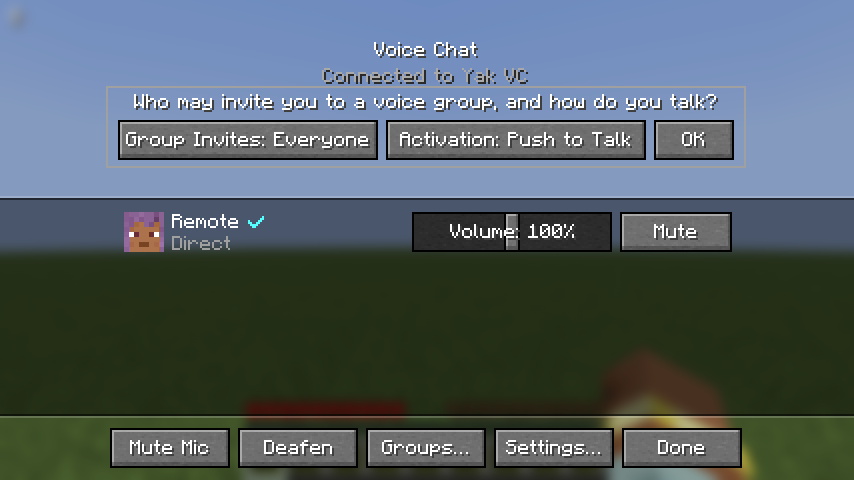
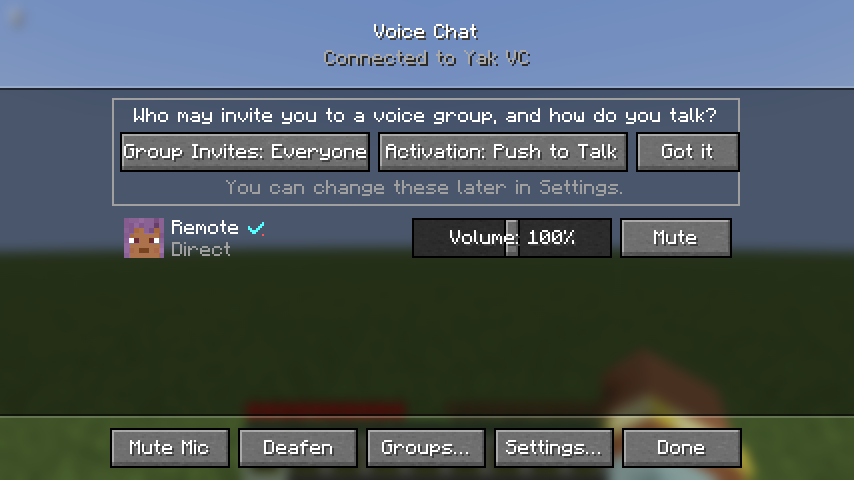
Move the setup card into the player list
The card now sits in the list as its own row, with a "Got it" button and a
note that both choices can be changed later in Settings.

Changed region(s): [[0.0, 0.0312, 1.0, 0.5625]]

diff --git a/mod/src/main/java/io/github/desocketed/yakvc/ui/VoiceMenuScreen.java b/mod/src/main/java/io/github/desocketed/yakvc/ui/VoiceMenuScreen.java
@@ -19,6 +19,7 @@ import net.minecraft.client.Minecraft;
 import net.minecraft.client.OptionInstance;
 import net.minecraft.client.gui.GuiGraphicsExtractor;
 import net.minecraft.client.gui.components.AbstractSliderButton;
+import net.minecraft.client.gui.components.AbstractWidget;
 import net.minecraft.client.gui.components.Button;
 import net.minecraft.client.gui.components.ContainerObjectSelectionList;
 import net.minecraft.client.gui.components.PlayerFaceExtractor;
@@ -40,15 +41,13 @@ import org.jspecify.annotations.Nullable;
 public final class VoiceMenuScreen extends Screen {
 	private static final int ROW_HEIGHT = 28;
 	private static final int ROW_WIDTH = 310;
+	private static final int SETUP_HEIGHT = 58;
 	private static final int HEADER_HEIGHT = 45;
-	private static final int HEADER_HEIGHT_WITH_CARD = 100;
 
 	private final @Nullable Screen lastScreen;
 	private final GameStateFeeder feeder;
 	private final HeaderAndFooterLayout layout = new HeaderAndFooterLayout(this, HEADER_HEIGHT, 33);
 	private @Nullable PlayerList list;
-	/** The first-run card, while it shows. */
-	private @Nullable LinearLayout setupCard;
 	/** The players in the list, to rebuild it when someone joins or leaves. */
 	private List<UUID> shown = List.of();
 	/** The status line under the title, which follows the voice state while the menu is open. */
@@ -70,12 +69,12 @@ public final class VoiceMenuScreen extends Screen {
 		header.addChild(new StringWidget(title, font));
 		shownStatus = status();
 		statusText = header.addChild(new StringWidget(shownStatus.copy().withStyle(ChatFormatting.GRAY), font));
-		setupCard = feeder.config().setupDone() ? null : header.addChild(setupCard());
-		layout.setHeaderHeight(setupCard == null ? HEADER_HEIGHT : HEADER_HEIGHT_WITH_CARD);
 
 		list = layout.addToContents(new PlayerList(minecraft));
+		// The first-run card sits at the top of the list, so it scrolls away with the players.
+		if (!feeder.config().setupDone()) list.add(new SetupRow(), SETUP_HEIGHT);
 		shown = players();
-		for (UUID uuid : shown) list.add(new PlayerRow(uuid));
+		for (UUID uuid : shown) list.add(new PlayerRow(uuid), ROW_HEIGHT);
 
 		VoiceKeys keys = feeder.keys();
 		LinearLayout footer = layout.addToFooter(LinearLayout.horizontal().spacing(4));
@@ -95,38 +94,6 @@ public final class VoiceMenuScreen extends Screen {
 
 		layout.visitWidgets(this::addRenderableWidget);
 		repositionElements();
-	}
-
-	/**
-	 * The first-run card: who may invite you to a group and how you talk, the two choices a new player should make
-	 * before anything else. OK saves both and sets {@code setup_done}, so the card doesn't come back.
-	 */
-	private LinearLayout setupCard() {
-		ClientConfig config = feeder.config();
-		OptionInstance<String> invites = VoiceSettingsScreen.invitesOption(config);
-		OptionInstance<String> activation = VoiceSettingsScreen.activationOption(config);
-		LinearLayout card = LinearLayout.vertical().spacing(4);
-		card.defaultCellSetting().alignHorizontallyCenter();
-		card.addChild(new StringWidget(Component.translatable("yakvc.setup.prompt"), font));
-		LinearLayout row = card.addChild(LinearLayout.horizontal().spacing(4));
-		row.addChild(invites.createButton(minecraft.options, 0, 0, 130));
-		row.addChild(activation.createButton(minecraft.options, 0, 0, 130));
-		row.addChild(Button.builder(Component.translatable("yakvc.setup.ok"), button -> {
-			ClientConfig changed = VoiceSettingsScreen.withActivationAndInvites(config, activation, invites)
-					.with("", "setup_done", "true");
-			VoiceSettingsScreen.applyAndSave(feeder, changed);
-			rebuildWidgets();
-		}).width(40).build());
-		return card;
-	}
-
-	@Override
-	public void extractRenderState(GuiGraphicsExtractor graphics, int mouseX, int mouseY, float a) {
-		super.extractRenderState(graphics, mouseX, mouseY, a);
-		if (setupCard != null) {
-			graphics.outline(setupCard.getX() - 6, setupCard.getY() - 4, setupCard.getWidth() + 12,
-					setupCard.getHeight() + 8, 0xFFA0A0A0);
-		}
 	}
 
 	@Override
@@ -191,13 +158,13 @@ public final class VoiceMenuScreen extends Screen {
 		return Component.translatable(deafened ? "yakvc.menu.undeafen" : "yakvc.menu.deafen");
 	}
 
-	private final class PlayerList extends ContainerObjectSelectionList<PlayerRow> {
+	private final class PlayerList extends ContainerObjectSelectionList<Row> {
 		PlayerList(Minecraft minecraft) {
 			super(minecraft, VoiceMenuScreen.this.width, layout.getContentHeight(), layout.getHeaderHeight(), ROW_HEIGHT);
 		}
 
-		void add(PlayerRow row) {
-			addEntry(row);
+		void add(Row row, int height) {
+			addEntry(row, height);
 		}
 
 		@Override
@@ -206,8 +173,64 @@ public final class VoiceMenuScreen extends Screen {
 		}
 	}
 
+	/** A row of the list: the first-run card or a player. */
+	private abstract static class Row extends ContainerObjectSelectionList.Entry<Row> {
+	}
+
+	/**
+	 * The first-run card: who may invite you to a group and how you talk, the two choices a new player should make
+	 * before anything else. Got it saves both and sets {@code setup_done}, so the card doesn't come back.
+	 */
+	private final class SetupRow extends Row {
+		private final AbstractWidget invites;
+		private final AbstractWidget activation;
+		private final Button gotIt;
+
+		SetupRow() {
+			ClientConfig config = feeder.config();
+			OptionInstance<String> invitesOption = VoiceSettingsScreen.invitesOption(config);
+			OptionInstance<String> activationOption = VoiceSettingsScreen.activationOption(config);
+			invites = invitesOption.createButton(minecraft.options, 0, 0, 125);
+			activation = activationOption.createButton(minecraft.options, 0, 0, 125);
+			gotIt = Button.builder(Component.translatable("yakvc.setup.ok"), button -> {
+				ClientConfig changed = VoiceSettingsScreen.withActivationAndInvites(config, activationOption, invitesOption)
+						.with("", "setup_done", "true");
+				VoiceSettingsScreen.applyAndSave(feeder, changed);
+				rebuildWidgets();
+			}).width(52).build();
+		}
+
+		@Override
+		public void extractContent(GuiGraphicsExtractor graphics, int mouseX, int mouseY, boolean hovered, float a) {
+			int x = getContentX();
+			int y = getContentY();
+			int width = getContentWidth();
+			graphics.outline(x - 4, y, width + 8, SETUP_HEIGHT - 4, 0xFFA0A0A0);
+			Component prompt = Component.translatable("yakvc.setup.prompt");
+			graphics.text(font, prompt, x + (width - font.width(prompt)) / 2, y + 5, 0xFFFFFFFF, false);
+			invites.setPosition(x, y + 17);
+			activation.setPosition(invites.getRight() + 4, y + 17);
+			gotIt.setPosition(activation.getRight() + 4, y + 17);
+			invites.extractRenderState(graphics, mouseX, mouseY, a);
+			activation.extractRenderState(graphics, mouseX, mouseY, a);
+			gotIt.extractRenderState(graphics, mouseX, mouseY, a);
+			Component later = Component.translatable("yakvc.setup.later");
+			graphics.text(font, later, x + (width - font.width(later)) / 2, y + 41, 0xFFA0A0A0, false);
+		}
+
+		@Override
+		public List<? extends GuiEventListener> children() {
+			return List.of(invites, activation, gotIt);
+		}
+
+		@Override
+		public List<? extends NarratableEntry> narratables() {
+			return List.of(invites, activation, gotIt);
+		}
+	}
+
 	/** Face, name, verified badge, talking icon and voice connection on the left; volume and mute on the right. */
-	private final class PlayerRow extends ContainerObjectSelectionList.Entry<PlayerRow> {
+	private final class PlayerRow extends Row {
 		private final UUID uuid;
 		private final VolumeSlider volume;
 		private final Button mute;

diff --git a/mod/src/gametest/java/io/github/desocketed/yakvc/gametest/YakVcClientGameTest.java b/mod/src/gametest/java/io/github/desocketed/yakvc/gametest/YakVcClientGameTest.java
@@ -272,7 +272,7 @@ public class YakVcClientGameTest implements FabricClientGameTest {
 		// DevRendezvous writes a fresh config each run, so the first-run card shows; OK saves that it was seen.
 		context.setScreen(() -> new VoiceMenuScreen(null, feeder));
 		screenshotScreen(context, "voice-menu-setup");
-		context.clickScreenButton("yakvc.setup.ok");
+		pressNestedButton(context, "yakvc.setup.ok");
 		context.waitFor(mc -> feeder.config().setupDone());
 		String configBefore = read(configFile);
 		if (!configBefore.contains("setup_done = true")) {

diff --git a/docs/USER_GUIDE.md b/docs/USER_GUIDE.md
@@ -82,7 +82,7 @@ Press **Esc** and the microphone button next to **Back to Game**, or your **Open
 
 ![The microphone button in the pause menu](guide/pause-menu.png)
 
-The first time you open it, a card at the top asks two things: who may invite you to a [group](#groups) (**Everyone**, **Friends** or **Nobody**) and how you talk (**Push to Talk** or **Voice**). **OK** saves both, and the card doesn't come back; both are in the [settings](#settings) too.
+The first time you open it, a card at the top asks two things: who may invite you to a [group](#groups) (**Everyone**, **Friends** or **Nobody**) and how you talk (**Push to Talk** or **Voice**). **Got it** saves both, and the card doesn't come back; both are in the [settings](#settings) too.
 
 ![The voice menu with the first-run card](guide/voice-menu-setup.png)
 
